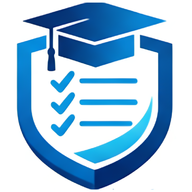
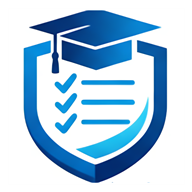
Updated the PWA

Changed region(s): [[0.0625, 0.0, 0.9062, 1.0]]

diff --git a/pages/super-admin/Schools.tsx b/pages/super-admin/Schools.tsx
@@ -48,6 +48,7 @@ const Schools = () => {
     schoolType: "Basic School (Nursery to JHS)",
 
     name: "",
+    schoolAdminFullName: "",
     phone: "",
     address: "",
     logoUrl: "",
@@ -329,6 +330,7 @@ const Schools = () => {
       const croppedLogo = getCroppedLogoDataUrl();
       await createSchool({
         name: formData.name.trim(),
+        schoolAdminFullName: formData.schoolAdminFullName.trim(),
         phone: formData.phone.trim(),
         address: formData.address.trim(),
         logoUrl: croppedLogo || "",
@@ -346,6 +348,7 @@ const Schools = () => {
 
       setFormData({
         name: "",
+        schoolAdminFullName: "",
         phone: "",
         address: "",
         logoUrl: "",
@@ -881,6 +884,25 @@ const Schools = () => {
                     setFormData({ ...formData, name: e.target.value })
                   }
                   placeholder="Enter school name"
+                />
+              </div>
+
+              <div>
+                <label className="block text-sm font-semibold text-slate-700 mb-2">
+                  School Admin Full Name
+                </label>
+                <input
+                  type="text"
+                  disabled={isCreatingSchool}
+                  className="w-full border border-slate-300 p-3 rounded-lg focus:ring-2 focus:ring-[#1160A8] focus:border-transparent outline-none disabled:bg-slate-100 disabled:cursor-not-allowed"
+                  value={formData.schoolAdminFullName}
+                  onChange={(e) =>
+                    setFormData({
+                      ...formData,
+                      schoolAdminFullName: e.target.value,
+                    })
+                  }
+                  placeholder="Enter school admin full name"
                 />
               </div>
 

diff --git a/pages/admin/ReportCard.tsx b/pages/admin/ReportCard.tsx
@@ -1287,7 +1287,11 @@ const ReportCard = () => {
             )}
           </div>
 
-          <ReportCardLayout data={reportCardData} />
+          <div className="-mx-3 overflow-auto px-3 pb-4 sm:mx-0 sm:px-0">
+            <div className="min-w-max">
+              <ReportCardLayout data={reportCardData} />
+            </div>
+          </div>
         </div>
       )}
     </Layout>

diff --git a/server/server.js b/server/server.js
@@ -6454,6 +6454,7 @@ app.post(
     try {
       const {
         name,
+        schoolAdminFullName,
         phone,
         address,
         logoUrl,
@@ -6534,6 +6535,9 @@ app.post(
       const schoolData = {
         schoolId,
         name: name.trim(),
+        schoolAdminFullName: schoolAdminFullName
+          ? String(schoolAdminFullName).trim()
+          : "",
         code: schoolCode,
         phone: phone ? phone.trim() : "",
         address: address ? address.trim() : "",

diff --git a/services/backendApi.ts b/services/backendApi.ts
@@ -177,6 +177,7 @@ export async function getPayoutStatus(
  */
 export async function createSchool(payload: {
   name: string;
+  schoolAdminFullName?: string;
   phone?: string;
   address?: string;
   logoUrl?: string;

diff --git a/types.ts b/types.ts
@@ -38,6 +38,7 @@ export interface User {
 export interface School {
   id: string;
   name: string;
+  schoolAdminFullName?: string;
   code: string;
   logoUrl: string;
   phone: string;